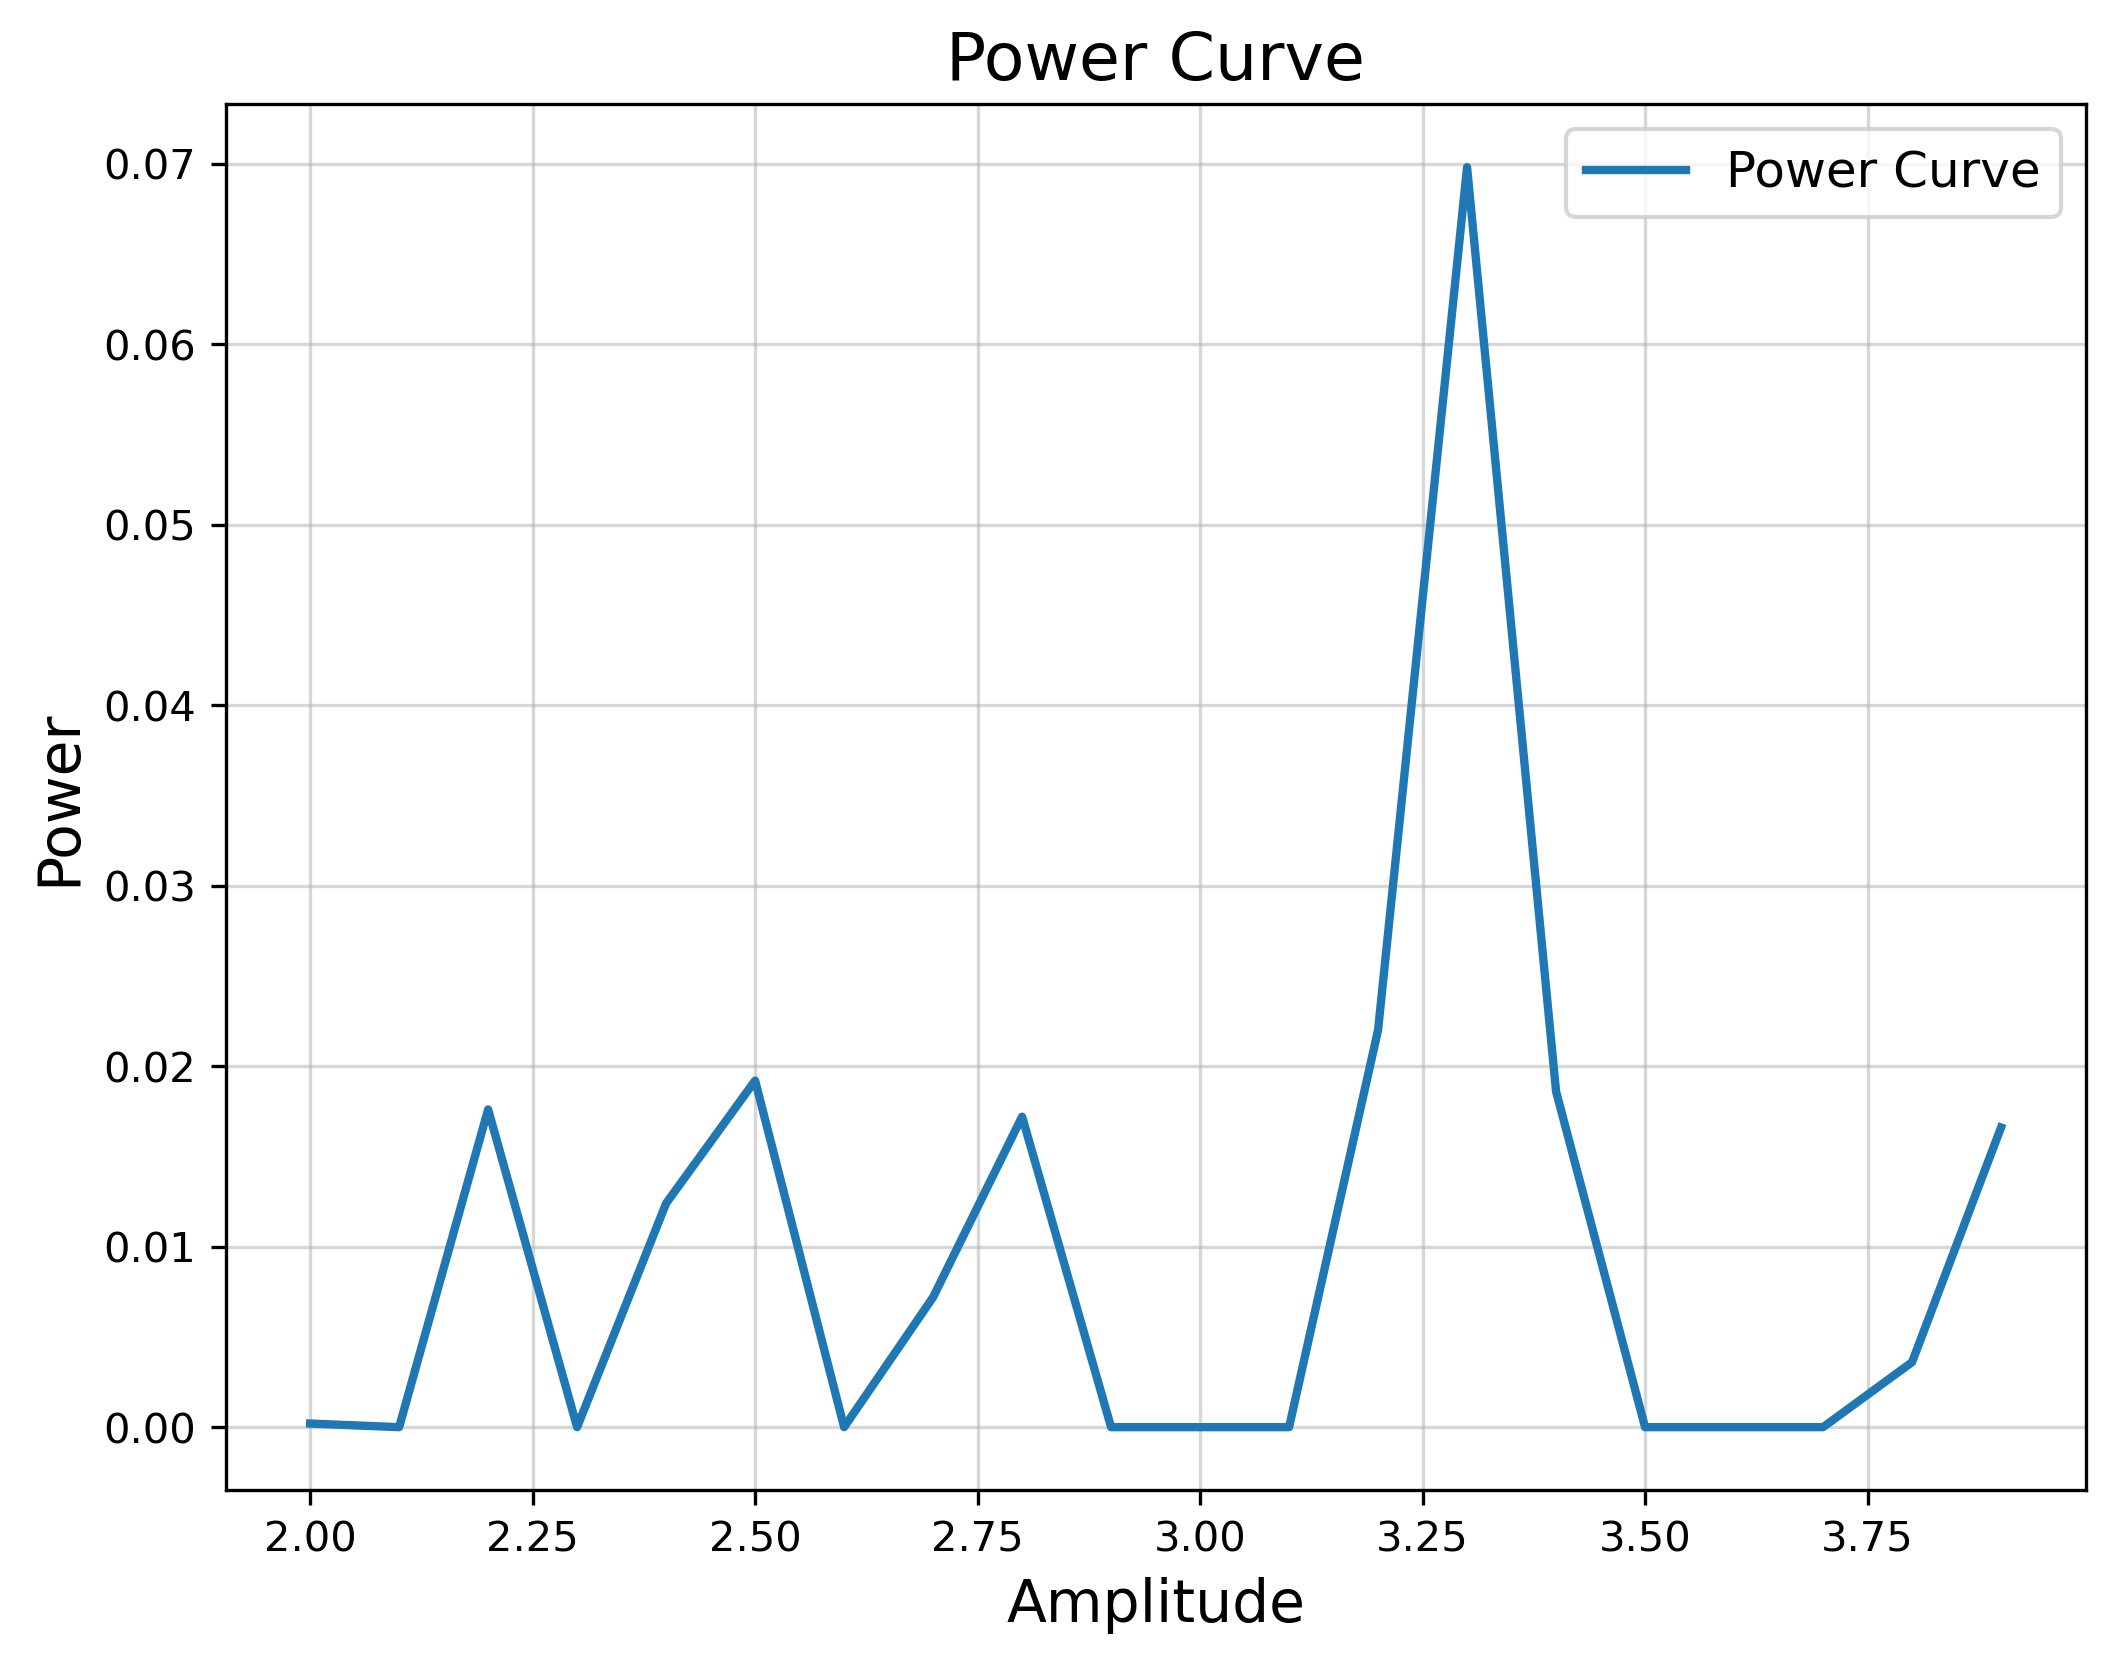
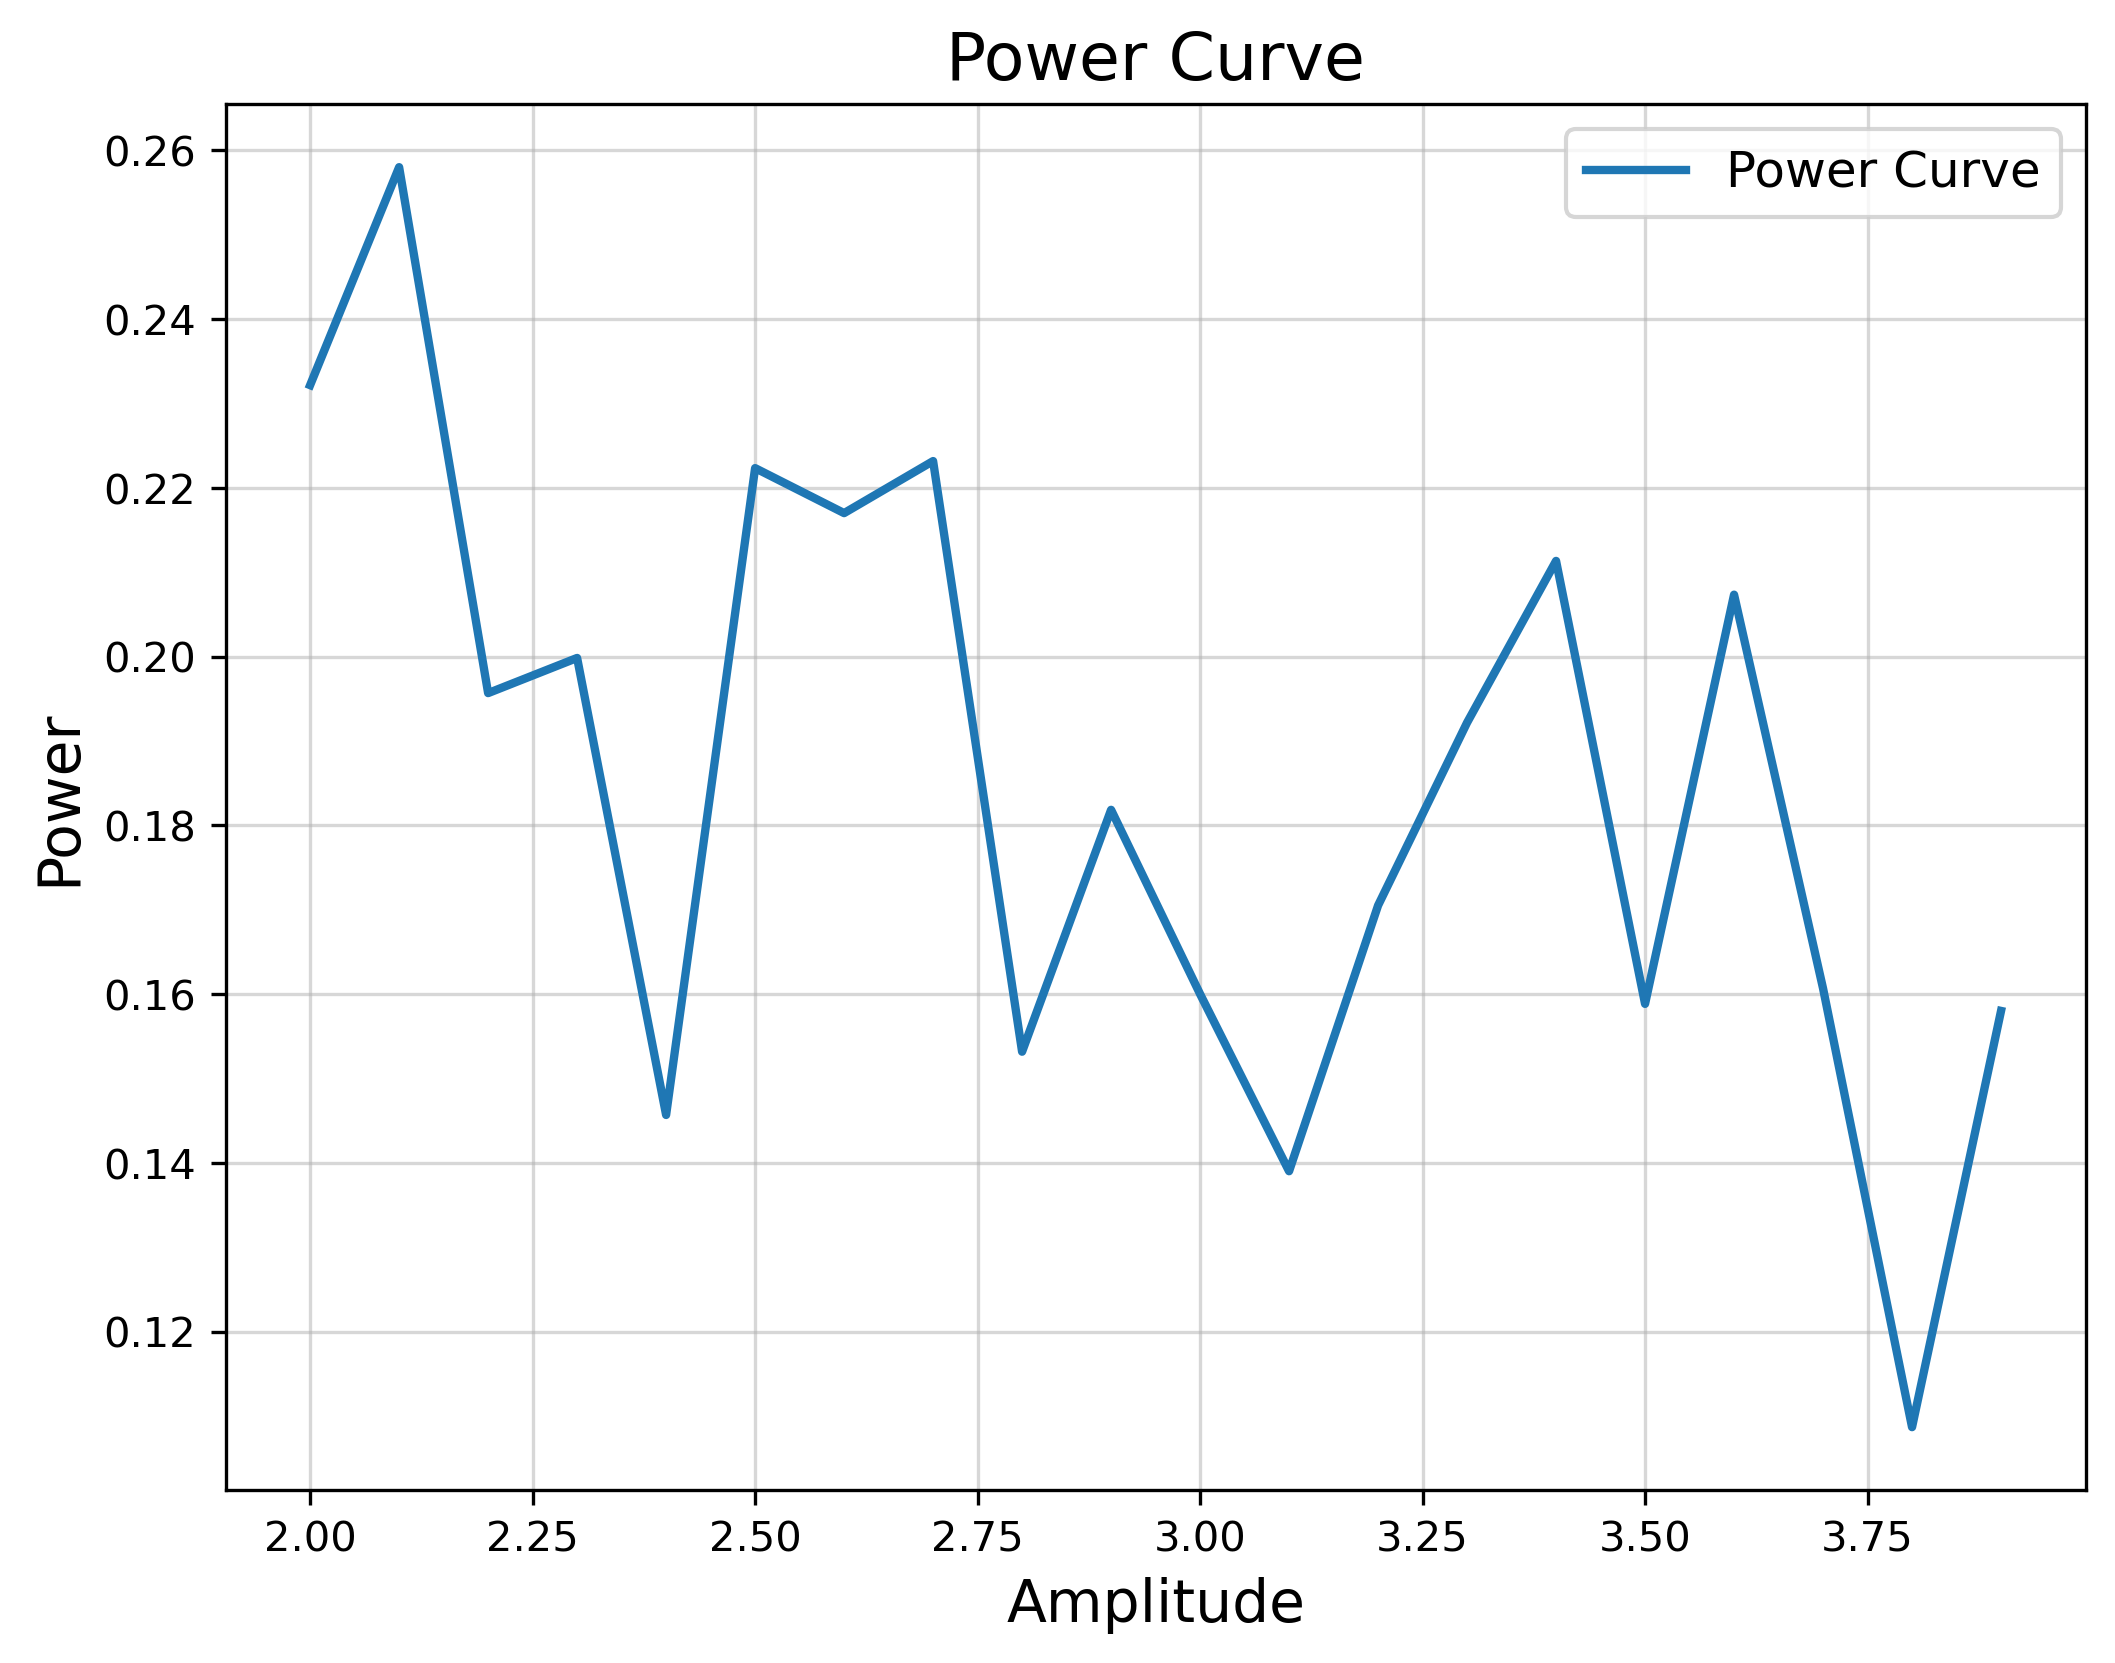
switched regimes for Adadtect

diff --git a/Adadetect_implementation.py b/Adadetect_implementation.py
@@ -22,27 +22,17 @@ from utils.ci_sequence import get_alpha_cs, get_rho, hedged_cs, asy_cs, asy_log_
 from utils.generating_data import *
 
 from Adadetect import AdaDetectDE, AdaDetectERM
+from sklearn.ensemble import IsolationForest
 
 from cc_utils.conformal import conformal
 
-
-class SVMScoringFn:
-    def __init__(self, nu, kernel, gamma):
-        self.classifier = svm.OneClassSVM(nu=nu, kernel=kernel, gamma=gamma)
-
-    def fit(self, xtrain, x_null_train):
-        self.classifier.fit(x_null_train)
-
-    def score_samples(self, X):
-        return -1 * self.classifier.score_samples(X)
-
 #HYPERPARAMETERS
-seeds = np.arange(1,100)
-alpha_fdr = 0.3
+seeds = np.arange(1,25)
+alpha_fdr = 0.1
 name = "Ada"
 m = 500 #number of points in test
 n = 1000 #number of points in the calibration
-prop_outliers = 0.5 #proportion of outlier (pi) in the experiement
+prop_outliers = 0.1 #proportion of outlier (pi) in the experiement
 
 # details
 amps = np.arange(2,4,0.1) # we create a range of parameters to visualize power curve
@@ -55,7 +45,6 @@ THETA = np.zeros(50)
 p_theta = 6 
 THETA[:p_theta,] = np.array([0.3, 0.3, 0.2, 0.2, 0.1, 0.1]) 
 THETA = THETA.reshape((50,1))
-
 
 ### make directories
 filepath = f'results/{name}/'
@@ -79,6 +68,7 @@ for seed in seeds:
         # We simulate the data and then train SVM on it
         Xtrain = gen_data(Wset, n_train, 1)
         Xcalib = gen_data(Wset, n, 1)
+        Xnull = np.concatenate([Xtrain, Xcalib]) 
 
         Xtest0 = gen_data_weighted(Wset, m-n_outliers, 1, THETA)    # inliers 
         Xtest1 = gen_data_weighted(Wset, n_outliers, amp, THETA)    # outliers
@@ -89,13 +79,13 @@ for seed in seeds:
 
         #Initializing the Adadetect
         scoring_fn = svm.OneClassSVM(nu=0.004, kernel="rbf", gamma=0.1)
-        adadetect = AdaDetectDE(scoring_fn=scoring_fn, f0_known=True)
+        scoring_fn_new = IsolationForest(random_state=0)
+        adadetect = AdaDetectERM(scoring_fn=scoring_fn_new)
         
         #We investigate the simple setting
-        rej = adadetect.apply(Xtest, level=alpha_fdr, xnull=Xtrain)
-        print(rej)
+        rej = adadetect.apply(Xtest, level=alpha_fdr, xnull=Xnull)
 
-        # adadetect output baseline
+        # adadetect output
         powers.append(evaluate(rej, nonzero)['power'])
     
     iteration += 1 

diff --git a/testing_Adadetect.py b/testing_Adadetect.py
@@ -1,0 +1,27 @@
+import numpy as np
+from sklearn.datasets import fetch_openml 
+from sklearn.ensemble import RandomForestClassifier
+from Adadetect import AdaDetectERM 
+
+dataset = fetch_openml(name='creditcard', version=1, as_frame=False)
+X = dataset.data
+y = dataset.target.astype(np.float)
+
+#test sample 
+outlr, inlr = X[y==1], X[y==0]
+m1 = 100
+m0 = 900 
+test1, test0 = outlr[:m1], inlr[:m0]
+x = np.concatenate([test0, test1]) 
+
+#NTS
+n=5000
+xnull = inlr[m0:m0+n]
+print(xnull)
+
+#apply AdaDetect with ERM approach, with k=4000 (see notations of the paper)
+level=0.05
+proc = AdaDetectERM(scoring_fn = RandomForestClassifier(max_depth=10),
+                                 split_size=4000/5000) 
+rej = proc.apply(x, level, xnull) #gives the rejection set 
+print(rej)

diff --git a/Adadetect.py b/Adadetect.py
@@ -139,7 +139,7 @@ class AdaDetectDE(AdaDetectBase):
             xnull = xnull_calib
 
         # compute scores 
-        self.test_statistics = self.scoring_fn.score_samples(x) 
+        self.test_statistics = self.scoring_fn.score_samples(x)
         self.null_statistics = self.scoring_fn.score_samples(xnull) 
 
 

diff --git a/Simulations.py b/Simulations.py
@@ -64,7 +64,7 @@ n_train = n if args.n_train == None else args.n_train    # can specify training 
 prop_outliers = args.prop_outliers
 
 # Wset
-seeds = np.arange(1,100,2)
+seeds = np.arange(1,100,1)
 avg_power = np.zeros(len(amps))
 iteration = 0
 
